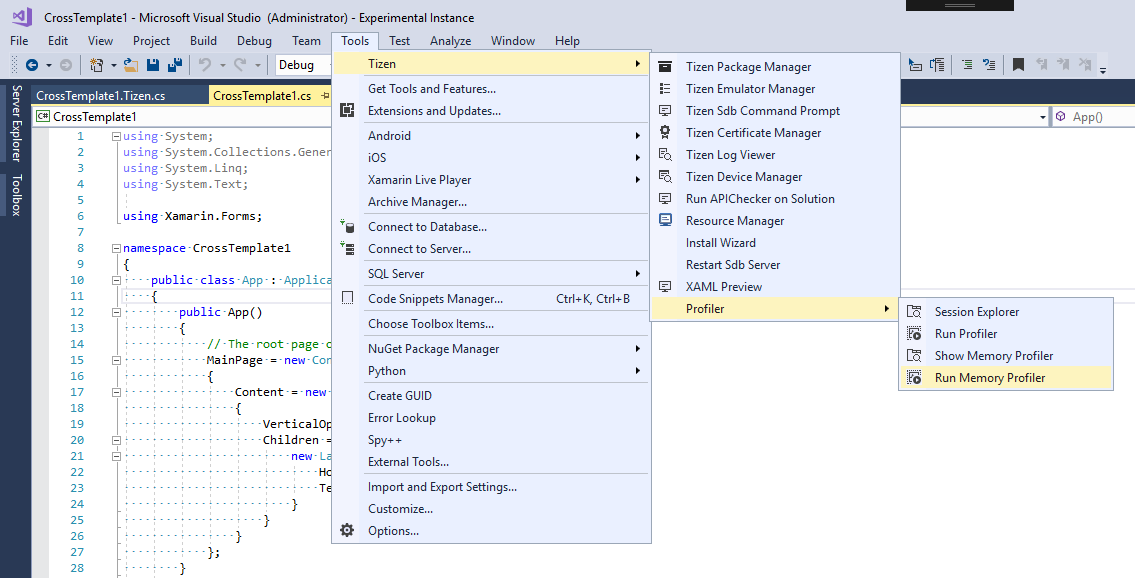
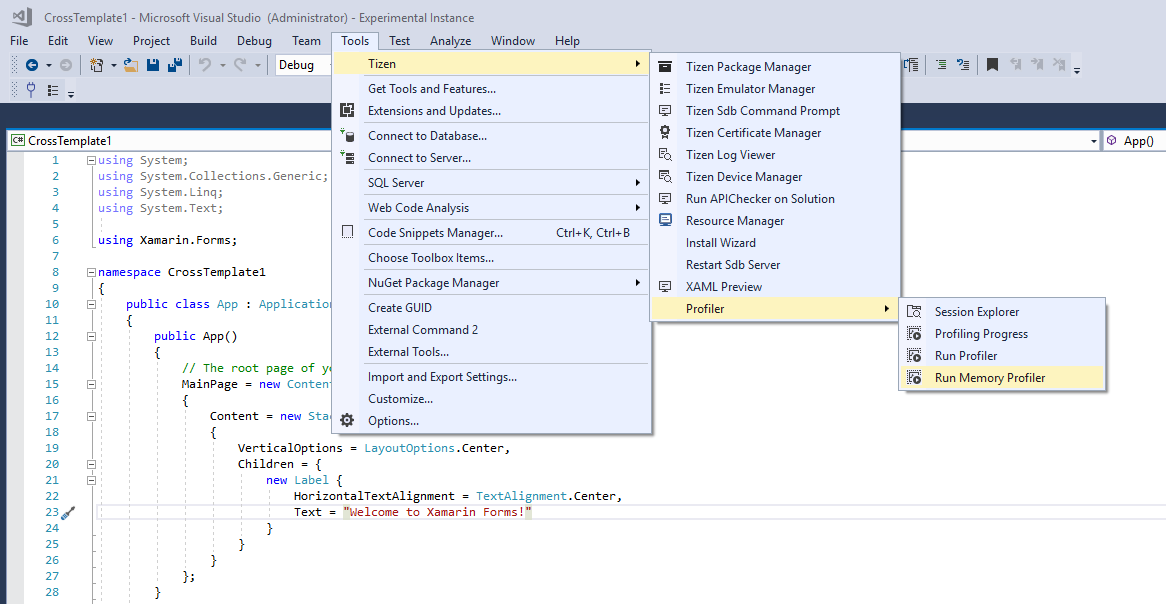
readme updated

Changed region(s): [[0.0, 0.0, 1.0, 1.0], [0.8018, 0.0, 0.8943, 0.0311], [0.1542, 0.9343, 0.185, 0.9654]]

diff --git a/README.md b/README.md
@@ -62,13 +62,13 @@ In the following examples option `-c` is used to specify path to the GBS config 
 #### Build for ARM Tizen TM1 target
 
 ```console
-~/heaptrack$ gbs -c ../gbs-config/gbs.conf build -P profile.arm.snapshot -A armv7l
+~/heaptrack$ gbs -c docs/gbs-config/gbs.conf build -P profile.arm.snapshot -A armv7l
 ```
 
 #### Build for x86 Tizen emulator
 
 ```console
-~/heaptrack$ gbs -c ../gbs-config/gbs.conf build -P profile.emul32.snapshot -A i586
+~/heaptrack$ gbs -c docs/gbs-config/gbs.conf build -P profile.emul32.snapshot -A i586
 ```
 
 ### Building GUI
@@ -115,29 +115,33 @@ Basic instructions for Running the Memory Profiler under  Visual Studio are prov
      ![Run Memory Profiler](docs/image/run_memory_profiler.png)
 
 
-   * If no Tizen device is connected and no Tizen emulators are running then Emulator Manager will be started. Please launch the type of emulator you want to use for running and profiling your application.
+   * If no Tizen device is connected and no Tizen emulators are running then Emulator Manager will be started. Please launch the type of emulator you want to use for running and profiling your application. 
 
      ![Launch Emulator](docs/image/start_emulator.png)
 
-
-   * If everything is OK then the application starts as if you run it normally (using Start Debugging in Visual Studio).
+   
+   * If everything is OK then the application starts as if you run it normally (using Start Debugging in Visual Studio). 
 
      ![Tizen application running](docs/image/memory_profiling_app_started.png)
 
 
-   * In case of errors the Output Window will display them (the output below corresponds to the normal operation case).
+   * Output Window will display any information messages (debug, warnings, etc). 
 
      ![Memory Profiler Output Window](docs/image/memory_profiling_msvs_output.png)
 
 
-   * After finishing the application the memory profiling data file will be copied from Tizen to Windows host.
+   * After finishing the application the memory profiling data will be displayed with the GUI application (for closing application you may press "Home" or "Back" keys). 
 
-### Step 2. Running Memory Profiler GUI
-   * You can open the memory profiling data file in the GUI application to analyze it. In the menu, choose Tools > Tizen > Profiler > Show Memory Profiler.
+     ![Close Application](docs/image/close_application.png)
 
-     ![Run Memory Profiler GUI](docs/image/run_memory_profiler_gui.png)
 
-### Step 3. Analyzing the results
+   * Also you can display any previous debug session with Session Explorer (In the menu, Tools > Tizen > Profiler > Session Explorer).
+
+     ![Open Session Explorer](docs/image/open_session_explorer.png)
+
+     ![Open Session Explorer](docs/image/session_explorer_memory_profiler.png)
+
+### Step 2. Analyzing the results
    * The GUI application provides several views to the memory profiling data. The views include:
 
        - summary page with information on which process was profiled, its total runtime, some memory related statistics, etc.
@@ -150,7 +154,7 @@ Basic instructions for Running the Memory Profiler under  Visual Studio are prov
        - number of instances over time graph
        - number of memory allocations over time graph
        - size of memory allocated over time graph
-       - allocation histogram displaying the number of allocations (the total number and the several topmost code locations) belonging to one of the groups divided by allocation size (0 - 8 bytes, 9 - 16 bytes, ... , 512 bytes - 1 KB, more than 1 KB)
+       - allocation histogram displaying the number of allocations (the total number and the several topmost code locations) belonging to one of the groups divided by allocation size (0 - 8 bytes, 9 - 16 bytes, docs. , 512 bytes - 1 KB, more than 1 KB)
 
 #### Managed heap view sample
 
